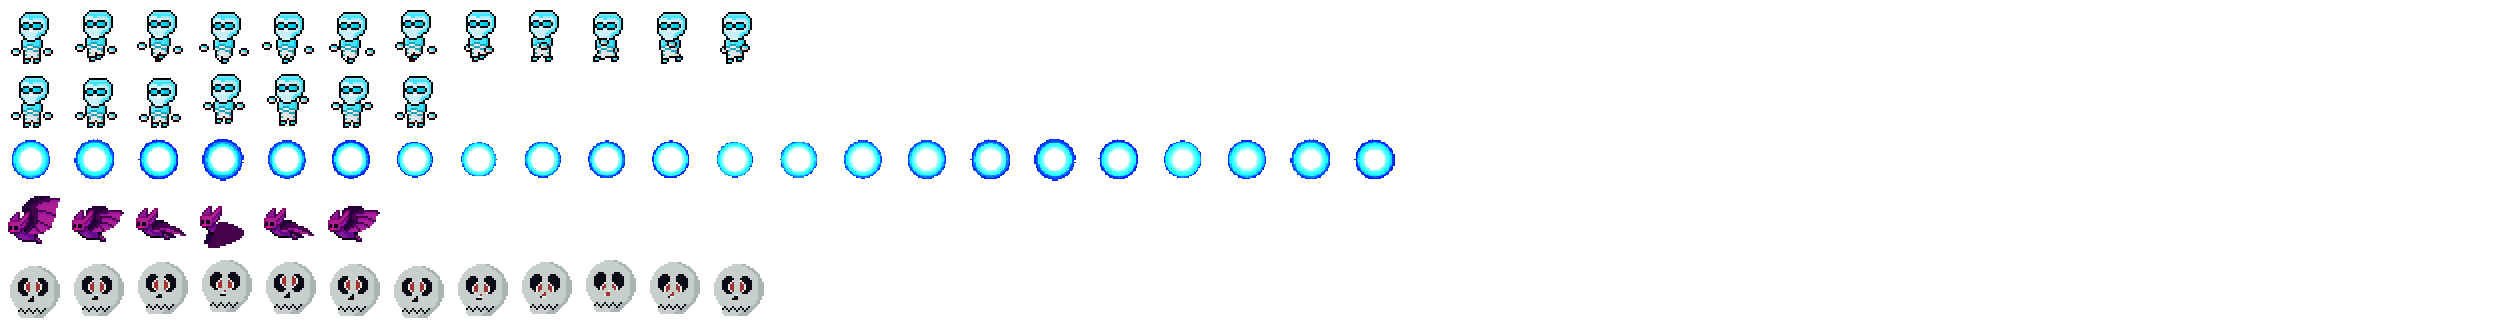
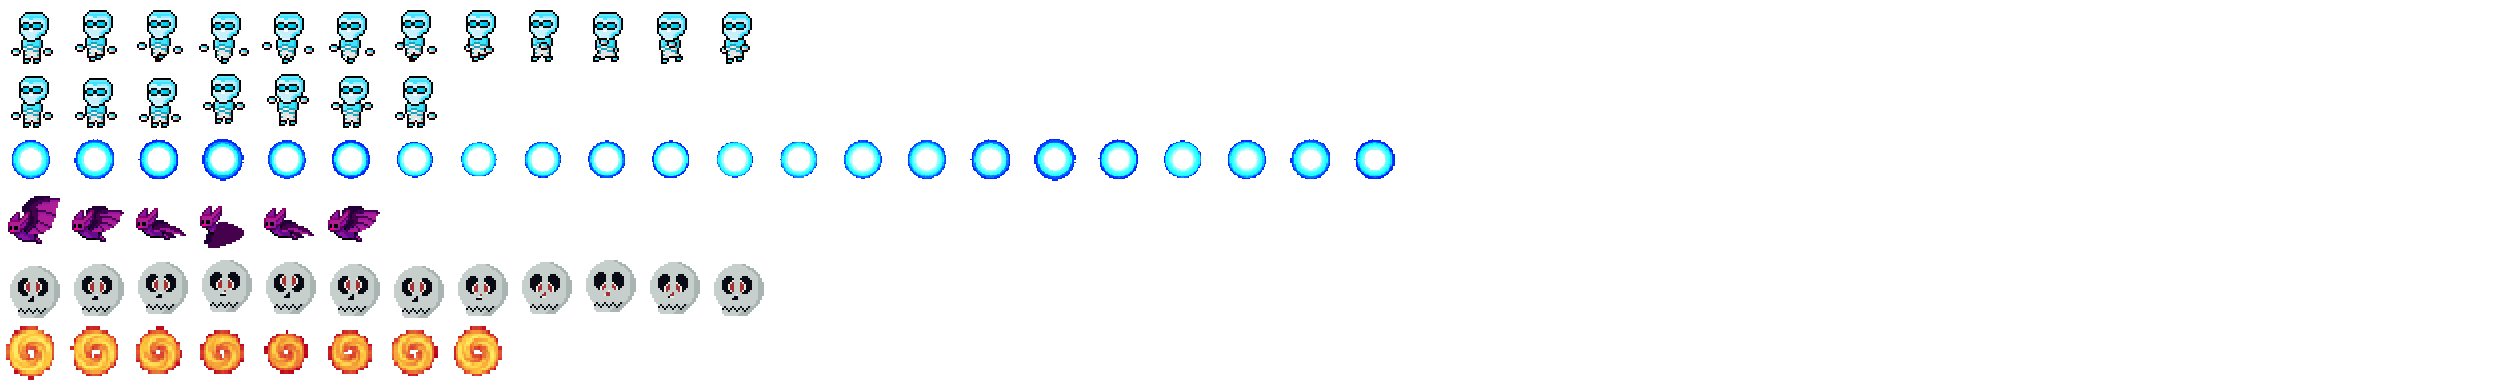
変身する敵のファイアボールのアニメーションを追加

Changed region(s): [[0.0, 0.0312, 0.5625, 1.0]]

diff --git a/Projects/Game/TransformEnemy.cpp b/Projects/Game/TransformEnemy.cpp
@@ -424,6 +424,7 @@ void TransformEnemy::SetAnimScale()
 	m_animations["Appear"].SetScale(kGraphScale);
 	m_animations["Seeker"].SetScale(kGraphScale);
 	m_animations["Skull"].SetScale(kGraphScale);
+	m_animations["FireBall"].SetScale(kGraphScale);
 }
 
 void TransformEnemy::CheckAnimation()
@@ -454,6 +455,10 @@ void TransformEnemy::CheckAnimation()
 	else if (m_updateFunc == &TransformEnemy::SkullUpdate)
 	{
 		ChangeAnimation(m_animations["Skull"]);
+	}
+	else if (m_updateFunc == &TransformEnemy::FireBallUpdate)
+	{
+		ChangeAnimation(m_animations["FireBall"]);
 	}
 }
 
